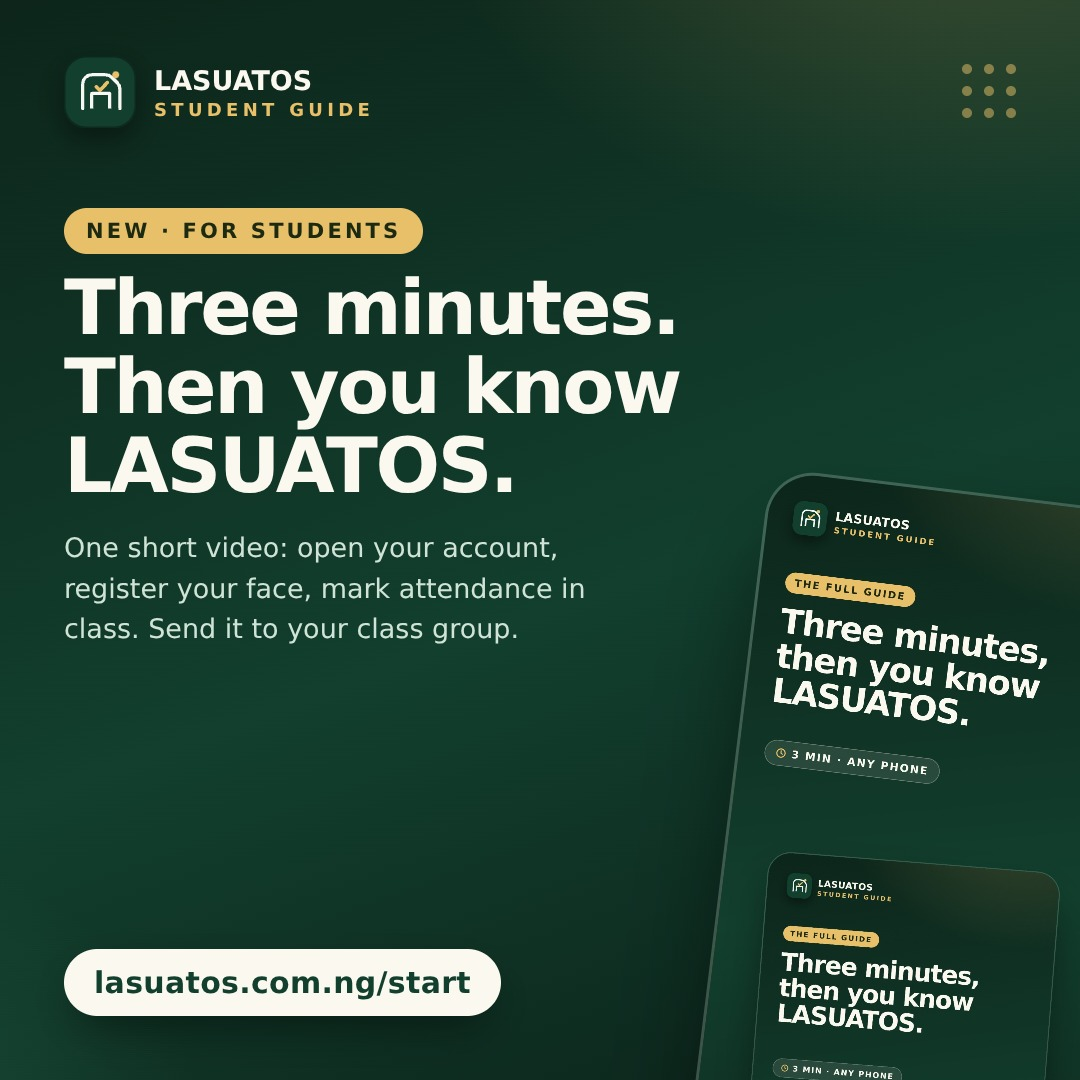
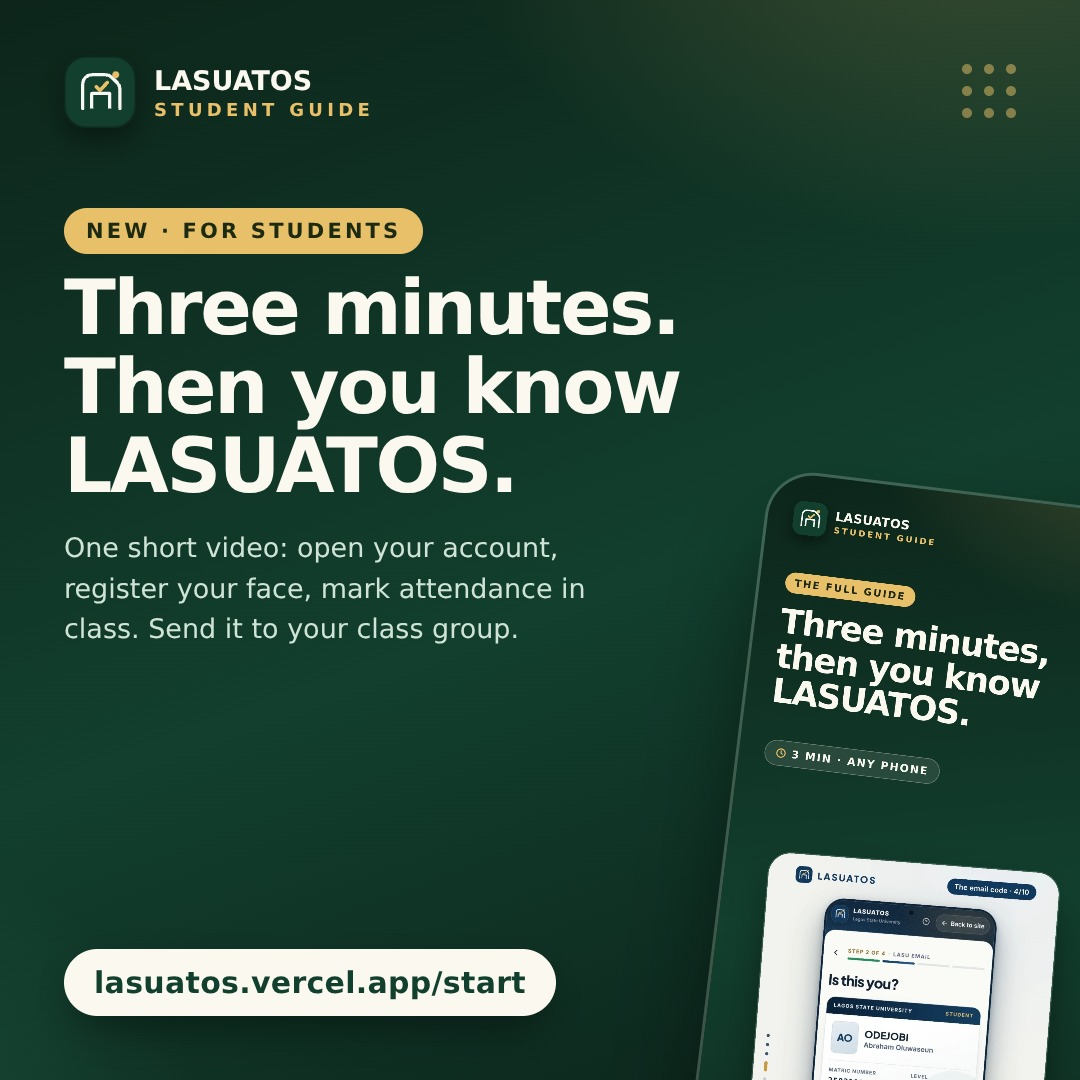
WhatsApp captions kit + lasuatos.vercel.app everywhere, no em dashes (#127)
* WhatsApp captions for every guide video: group + status versions

Each video (the full 3-minute guide and the four short parts) gets a
group caption and a short status caption, deep-linked to its part of
/start (#clip-…). Plus the two announcement-graphic captions and a
short forwardable message students can reshare.

* Use lasuatos.vercel.app in guide assets, drop em dashes from /start

- The install phone graphic, both WhatsApp announcement graphics and the
  captions now point at lasuatos.vercel.app, the live site.
- Em dashes removed from the /start page text (and the captions file).

---------

Changed region(s): [[0.6722, 0.7639, 0.9778, 1.0], [0.2139, 0.8556, 0.5194, 0.9472]]

diff --git a/apps/web/app/start/page.tsx b/apps/web/app/start/page.tsx
@@ -71,7 +71,7 @@ export default function StartPage() {
           <div className="pg-block-head">
             <p className="pg-kicker">Short parts</p>
             <h2 id="clips-title" className="pg-h2"><Tight>Only need one bit?</Tight></h2>
-            <p className="pg-body">Each part stands on its own — pick one and it plays right here. Handy to send to a classmate who is stuck on one step.</p>
+            <p className="pg-body">Each part stands on its own: pick one and it plays right here. Handy to send to a classmate who is stuck on one step.</p>
           </div>
           <GuideClips />
         </section>
@@ -82,7 +82,7 @@ export default function StartPage() {
             <h2 id="install-title" className="pg-h2"><Tight>Put it on your home screen.</Tight></h2>
             <p className="pg-body">
               LASUATOS is a website, so there’s nothing to download. Adding it to your home screen
-              makes it one tap away in class — you mark attendance from the browser either way.
+              makes it one tap away in class. You mark attendance from the browser either way.
             </p>
           </div>
           <div className="sg-install">
@@ -90,7 +90,7 @@ export default function StartPage() {
               <ol className="sg-install-steps">
                 <li>Open LASUATOS in your phone’s browser</li>
                 <li>Tap <strong>Share</strong> on iPhone, or the <strong>⋮ menu</strong> on Android</li>
-                <li>Choose <strong>Add to Home Screen</strong> — that’s it</li>
+                <li>Choose <strong>Add to Home Screen</strong>, and that’s it</li>
               </ol>
               <ul className="sg-install-chips" aria-label="Works on">
                 <li>Android</li>

diff --git a/apps/web/components/start-clips.tsx b/apps/web/components/start-clips.tsx
@@ -1,6 +1,6 @@
 // The short parts of the student guide: ONE shared player plus a list of the
 // four parts, instead of four separate video cards. Picking a row swaps the
-// player's video in and starts it (a real tap, so sound is allowed) — the
+// player's video in and starts it (a real tap, so sound is allowed). The
 // player answers through the same `sg:seek` bridge the chapters use.
 // `#clip-<id>` in the URL preselects a part, so a link can point a classmate
 // at exactly the step they are stuck on.
@@ -109,7 +109,7 @@ export function GuideClips() {
           label={`Video: ${active.title}`}
           seekKey="clip"
         />
-        <p className="sg-note">Part {CLIPS.indexOf(active) + 1} of {CLIPS.length} — {active.title}</p>
+        <p className="sg-note">Part {CLIPS.indexOf(active) + 1} of {CLIPS.length} · {active.title}</p>
         <button type="button" className="sg-partlink" onClick={copyLink} aria-live="polite">
           {copied ? <Check size={15} aria-hidden="true" /> : <Link2 size={15} aria-hidden="true" />}
           {copied ? 'Link copied!' : 'Copy a link to this part'}

diff --git a/apps/web/components/start-install-graphic.tsx b/apps/web/components/start-install-graphic.tsx
@@ -1,6 +1,6 @@
 // A little phone mockup for the install section: the LASUATOS icon sitting
 // on a home screen, straight from the browser bar above it. Purely decorative
-// (aria-hidden) — the words next to it do the explaining.
+// (aria-hidden) - the words next to it do the explaining.
 import { Check, Share } from 'lucide-react';
 import { BrandMark } from './brand-mark';
 
@@ -16,7 +16,7 @@ export function InstallGraphic() {
           <span className="sg-phone-signal"><i /><i /><i /></span>
         </div>
         <div className="sg-phone-browser">
-          <span className="sg-phone-url">lasuatos.com.ng</span>
+          <span className="sg-phone-url">lasuatos.vercel.app</span>
           <span className="sg-phone-share"><Share size={11} /></span>
         </div>
         <div className="sg-phone-grid">

diff --git a/apps/web/components/start-video.tsx b/apps/web/components/start-video.tsx
@@ -1,6 +1,6 @@
 // The student guide video player: a fully custom player (seek bar, time, volume,
 // fullscreen, keyboard shortcuts) that costs nothing to load until the visitor
-// taps play — preload="none" keeps the 23 MB file off the wire for people who
+// taps play: preload="none" keeps the 23 MB file off the wire for people who
 // only read the page. The first tap is a user gesture, so sound is allowed.
 'use client';
 

diff --git a/apps/web/components/start-chapters.tsx b/apps/web/components/start-chapters.tsx
@@ -1,5 +1,5 @@
 // Chapter list for the master guide video: each row jumps the video to that
-// moment and starts it. Pure client bridge — the player listens for `sg:seek`.
+// moment and starts it. Pure client bridge - the player listens for `sg:seek`.
 'use client';
 
 import { Play } from 'lucide-react';

diff --git a/tools/student-guide-video/announce/whatsapp-captions.md b/tools/student-guide-video/announce/whatsapp-captions.md
@@ -1,23 +1,139 @@
-# WhatsApp announcements — image + caption
+# LASUATOS WhatsApp kit: captions
 
-Share each image with its caption. WhatsApp turns the link into a preview.
+Everything here is ready to copy and paste. WhatsApp renders `*asterisks*` as
+bold. Keep the link on its own line at the end so it turns into a preview.
 
-## 1. Student guide video — `announce-guide.jpg` (for class groups)
+Files in this folder:
+
+- `LASUATOS guide - full (3 min).mp4` - the whole guide
+- `LASUATOS guide - Part 1–4 … .mp4` - the short parts
+- `WhatsApp square - student guide launch.jpg` - picture for the guide announcement
+- `WhatsApp square - passkeys (staff).jpg` - picture for lecturers & admins
+- `WhatsApp status - full guide (vertical).jpg` - full-screen status image
+
+How to use: attach the video or picture, then paste the caption into the
+caption box before sending.
+
+---
+
+## 1. Full guide - group caption (attach the full video)
+
+🎬 *The 3-minute LASUATOS guide is here!*
+
+One short video and you know everything: opening your account with your matric number, registering your face, and marking attendance in class.
+
+Watch it, then forward it to someone who hasn't opened their account yet. 🙌
+
+https://lasuatos.vercel.app/start
+
+## 1b. Full guide - status caption
+
+(Post the vertical status image, or the full video. WhatsApp splits it into 30-second parts automatically.)
+
+New to LASUATOS? Three minutes and you know everything 🎬
+
+lasuatos.vercel.app/start
+
+---
+
+## 2. Part 1 - open your account (attach the Part 1 video)
+
+🎓 *LASUATOS, Part 1: Open your account*
+
+All you need is your matric number and your LASU email. Your name fills in by itself - about two minutes, once.
+
+https://lasuatos.vercel.app/start#clip-open-account
+
+**Status version:**
+
+Open your LASUATOS account in about two minutes. Just your matric number 🎓
+
+lasuatos.vercel.app/start#clip-open-account
+
+---
+
+## 3. Part 2 - register your face (attach the Part 2 video)
+
+😊 *LASUATOS, Part 2: Register your face*
+
+Three quick photos, once. Face a light, hold your phone at eye level and turn your head slowly when asked.
+
+https://lasuatos.vercel.app/start#clip-face
+
+**Status version:**
+
+Register your face once. 20 seconds and you're done 😊
+
+lasuatos.vercel.app/start#clip-face
+
+---
+
+## 4. Part 3 - install & mark attendance (attach the Part 3 video)
+
+📱 *LASUATOS, Part 3: Install & mark attendance*
+
+Put LASUATOS on your home screen once. Then in class: scan the code on the projector, look at the camera, done.
+
+https://lasuatos.vercel.app/start#clip-mark
+
+**Status version:**
+
+Scan. Look. Done. That's attendance on LASUATOS 📱
+
+lasuatos.vercel.app/start#clip-mark
+
+---
+
+## 5. Part 4 - when something goes wrong (attach the Part 4 video)
+
+🆘 *LASUATOS, Part 4: When something goes wrong*
+
+Code won't scan? Phone died? Face check failed? Each one has a way through. 40 seconds.
+
+https://lasuatos.vercel.app/start#clip-problems
+
+**Status version:**
+
+LASUATOS giving you trouble? Every problem has a way through 🆘
+
+lasuatos.vercel.app/start#clip-problems
+
+---
+
+## 6. Guide announcement - picture post (attach the square guide graphic)
 
 🎬 *New: the 3-minute LASUATOS guide*
 
 One short video and you know everything: opening your account with your matric number, registering your face, and marking attendance in class. Only stuck on one step? There are short parts for each one.
 
-Watch here: https://lasuatos.com.ng/start
+Watch here: https://lasuatos.vercel.app/start
 
 Send it to your class group so nobody gets left behind. 🙌
 
-## 2. Passkeys — `announce-passkeys.jpg` (for lecturers & admins)
+---
+
+## 7. Passkeys - for lecturers & admins (attach the passkeys graphic)
 
 🔑 *New: sign in with your fingerprint or face*
 
-Lecturers and admins can now add a passkey — your phone or computer's own fingerprint, face or screen lock signs you in. No password to type, and a fake sign-in page can't steal it the way it steals passwords.
+Lecturers and admins can now add a passkey. Your phone or computer's own fingerprint, face or screen lock signs you in. No password to type, and a fake sign-in page can't steal it the way it steals passwords.
 
-Set it up once: lasuatos.com.ng → Account → Security → Passkeys
+Set it up once: lasuatos.vercel.app → Account → Security → Passkeys
 
 (You get an email whenever a passkey is added or removed, so your account stays yours.)
+
+---
+
+## 8. The forwardable one - for anyone to reshare
+
+Short enough that people actually forward it:
+
+New to LASUATOS? This 3-minute video shows you everything: opening your account, registering your face, and marking attendance in class → https://lasuatos.vercel.app/start 🙌
+
+---
+
+### Tips
+
+- **Status:** prefer the vertical image or one short part. The full 3-minute video works too - WhatsApp splits it into 30-second segments on its own.
+- The short parts (1–4) are the best things to drop into a class group when someone asks for help - each link opens exactly that part.
+- All the links open the guide page; nothing to install.
